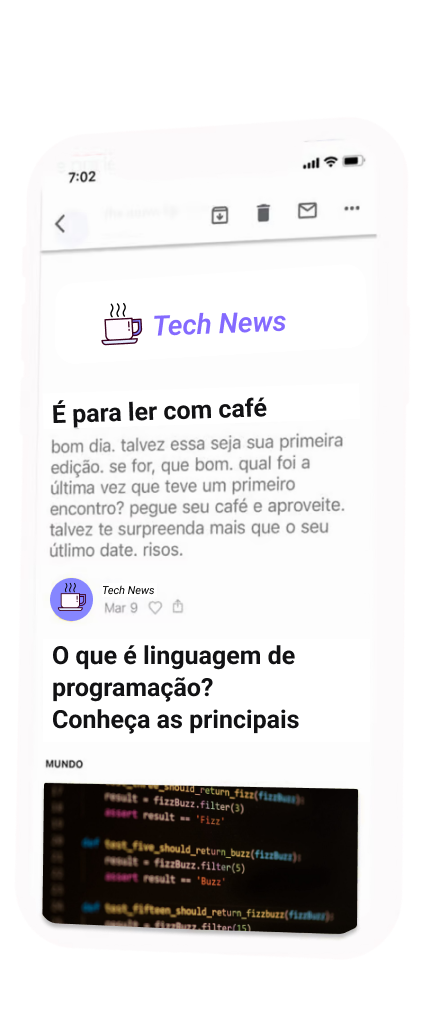
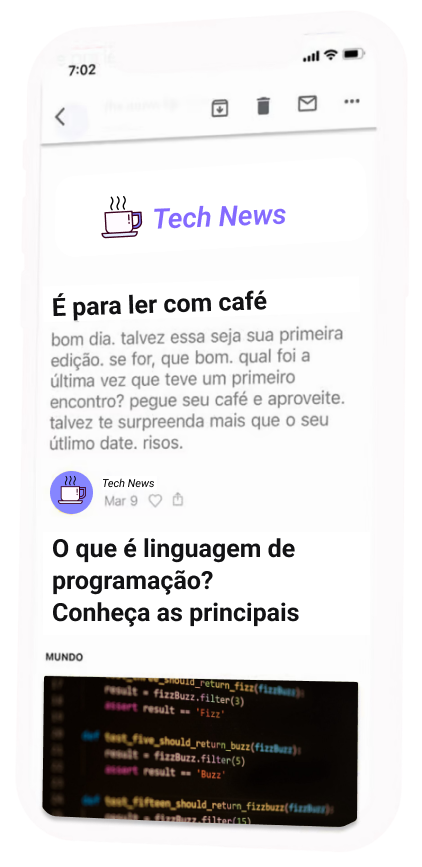
:fix: Corrijindo responsividade newsletter, ajustes de margin index e article, ajustando dimensões imagem celular newsletter

Changed region(s): [[0.0924, 0.0311, 0.8934, 0.9654], [0.154, 0.0623, 0.2464, 0.0934]]

diff --git a/assets/styles/newsLetter.css b/assets/styles/newsLetter.css
@@ -7,16 +7,7 @@ body {
 /* Contêiner Principal */
 
 .container-newsletter {
-  display: flex;
-  align-items: flex-start;
-  height: 100vh;
-  width: 100vw;
-  flex-direction: column;
-  padding: 1.5rem;
-  background-image: url(../img/imgs/trianguloBG_newsletter.svg);
-  background-repeat: no-repeat;
-  background-size: 63vw;
-  background-position: bottom right;
+  overflow: hidden;
 }
 
 .subscribe {
@@ -24,13 +15,12 @@ body {
     flex-direction: column;
     justify-content: flex-start;
     align-items: center;
-    width: 80vw;
+    width: 87vw;
 }
 
-.subscribe header img {
-  width: 4rem;
-  height: 4rem;
-  margin-bottom: 1.8rem;
+.subscribe .img_logo {
+  margin-bottom: 1.2rem;
+  width: 12rem;
 }
 
 .subscribe h1 {
@@ -41,13 +31,14 @@ body {
   margin-bottom: 1.8rem;
 }
 
-.subscribe p {
-  font-size: 1rem;
-  text-align: left;
-  min-width: 19rem;
+.subscribe .paragrafo_sobre {
+  width: 61vw;
+  text-align: justify;
+  font-size: 1.3rem;
+  max-width: 36rem;
   line-height: 1.5;
   color: #121214;
-  margin-bottom: 1.8rem;
+  margin-bottom: 1rem;
 }
 
 .subscribe form {
@@ -55,9 +46,6 @@ body {
   flex-direction: column;
   align-items: center;
   gap: 0.3rem;
-  margin-top: 1rem;
-  margin-bottom: 4rem;
-  width: 22rem;
 }
 
 .subscribe input[type="email"] {
@@ -75,13 +63,11 @@ body {
 }
 
 .subscribe button {
-  width: 100%;
+  width: 18rem;
   max-width: 17rem;
   height: 3rem;
-  padding: 0 3rem;
   background-color: #846aff;
   color: #fff;
-  border: none;
   border-radius: 0.4rem;
   font-size: 1rem;
   font-weight: bold;
@@ -96,12 +82,14 @@ body {
 /* Seção de retorno à pagina inicial*/
 
 .subscribe .additional-info {
+  width: 100%;
   font-size: 1rem;
   color: #121214;
 }
 
-.subscribe .additional-info p {
+.subscribe .additional-info p  {
   font-style: italic;
+  font-size: 1.4rem;
 }
 
 .subscribe .additional-info button {
@@ -138,10 +126,9 @@ body {
 
 /* Seção de Imagem */
 
-.image-newsletter {
+.img_celular-newsletter {
   display: none;
 }
-
 /* Triângulo Background*/
 
 .triangulo {
@@ -153,34 +140,45 @@ body {
 /* Media Queries para dispositivos maiores */
 
 
-@media (min-width: 375px) {
+@media (min-width: 320px) {
 
   .container-newsletter {
+    display: flex;
+    align-items: flex-start;
     flex-direction: column;
-    padding: 2rem;
+    justify-content: space-around;
+    height: 100vh;
+    width: 100vw;
+    padding: 1.3rem;
+    background-image: url(../img/imgs/trianguloBG_newsletter.svg);
+    background-repeat: no-repeat;
+    background-size: 53vw;
+    background-position: bottom right;
   }
 
   .subscribe img {
-    width: 13.8rem;
-    margin-bottom: 3rem;
+    margin-bottom: 1.2rem;
+    width: 12rem;
   }
 
-  .subscribe p {
+  .subscribe .paragrafo_sobre {
     font-size: 1rem;
-    width: 21rem;
+    width: 83vw;
+    max-width: 37rem;
     text-align: justify;
-    margin-bottom: 0rem;
+    margin-bottom: 1rem;
   }
 
   .subscribe form {
-    padding: 1rem;
     gap: 1rem;
+    margin: 0rem 1rem 2rem 0;
+    width: 17rem;
   }
 
   .subscribe input[type="email"] {
-    font-size: 1.1rem;
-    width: 20rem;
-    max-width: 36rem;
+    font-size: 1rem;
+    width: 85vw;
+    max-width: 27rem;
     padding-left: 5rem;
     height: 3.5rem;
     background-position: 1.5rem center;
@@ -190,13 +188,14 @@ body {
 
   .subscribe button {
     font-size: 1.1rem;
-    width: 20rem;
-    max-width: 36rem;
+    width: 85vw;
+   max-width: 27rem;
     height: 3.5rem;
   }
 
   .subscribe .additional-info {
-    font-size: 1.25rem;
+    width: 83vw;
+    max-width: 37rem;
   }
 
   .subscribe .additional-info button a {
@@ -208,13 +207,8 @@ body {
     margin-bottom: 0rem;
   }
 
-  .additional-info p{
-    margin-bottom: 0rem;
-    padding-left: 0rem;
-  }
-
-  .img_celular-newsletter {
-    display: none;
+  .subscribe .additional-info p {
+    font-size: 1.1rem;
   }
 
 }
@@ -223,7 +217,7 @@ body {
 
 @media (min-width: 768px) {
   .container-newsletter {
-    background-size: 50vw;
+    background-size: 38vw;
   } 
   
   .subscribe {
@@ -233,32 +227,26 @@ body {
 
   .subscribe img {
     width: 15rem;
-}
+  }
 
-  .subscribe p {
-    width: 30rem;
-    font-size: 1.1rem;
+  .subscribe .paragrafo_sobre {
+    font-size: 1.3rem;
   }
 
   .subscribe form {
-    width: 32rem;
+    width: 36rem;
   }
 
-  .subscribe input[type="email"] {
-    width: 30rem;
+  .subscribe input[type="email"], .subscribe button {
+    max-width: 31rem;
   }
 
-  .subscribe button { 
-    width: 30rem;
-  }
-
-  .subscribe .additional-info p {
+  .subscribe .additional-info p  {
     font-size: 1.5rem;
   }
-  
 
-  .subscribe .additional-info button a {
-    font-size: 1.5rem;
+  .subscribe .additional-info button a  {
+    font-size: 1.3rem;
   }
 
   .subscribe .additional-info button {
@@ -278,23 +266,41 @@ body {
     justify-content: space-around;
     background-size: 54vw;
   }
-
+  
   .subscribe {
-    width: 50vw;
+    width: 58vw;
     margin-left: 0rem;
+    height: 37rem;
+    justify-content: space-around;
+  }
+
+  .subscribe .img_logo {
+    width: 16rem;
   }
 
   .subscribe p {
     width: 49vw;
-    max-width: 39rem;
+    max-width: 33rem;
     font-size: 1.3rem;
   }
 
   .img_celular-newsletter {
     display: flex;
     position: absolute;
-    transform: translate(63vw, -54rem);
-    width: 20rem;
+    transform: translate(63vw, -45rem);
+        width: 19rem;
   }
 
+}
+
+@media (min-width: 1300px) { 
+
+  .subscribe {
+    height: 45rem;
+  }
+
+  .img_celular-newsletter {
+    transform: translate(63vw, -50rem);
+    width: 21rem;
+  }
 }

diff --git a/index.html b/index.html
@@ -27,8 +27,8 @@
         <img src="./assets/img/imgs/image.svg" alt="">
         <div>
             <h1 class="hero-titulo">Receba os <span class="destaque--hero-titulo">melhores artigos</span>
-                de programação em um só lugar</h1>
-            <p class="hero-subtitulo">Explore o topo da programação em um só lugar! Seu destino único para dicas e tendências atuais.</p>
+                de programação em um só lugar.</h1>
+            <p class="hero-subtitulo">Explore o topo da programação! Seu destino único para dicas e tendências atuais.</p>
             <button class="btn_callToAction btn_hero" type="button"><a href="./pages/newsletter.html">SAIBA MAIS</a></button>
         </div>
    </section>

diff --git a/pages/newsletter.html b/pages/newsletter.html
@@ -12,8 +12,8 @@
   <body>
     <main class="container-newsletter">
       <section class="subscribe">
-          <img src="../assets/img/imgs/TechNews-logo (Desktop).png" alt="Xícara de café"/>
-          <p>
+          <img src="../assets/img/imgs/TechNews-logo (Desktop).png" class="img_logo" alt="Xícara de café"/>
+          <p class="paragrafo_sobre">
             Tudo que você precisa saber sobre tecnologia pra começar seu dia bem
             e informado. <br>
             As principais notícias sobre tecnologia do Brasil e do mundo, 100%

diff --git a/pages/article.html b/pages/article.html
@@ -12,11 +12,13 @@
 
   <body>
     <header class="header-container">
-      <img
-        src="../assets/img/imgs/TechNews-logo (Desktop).png"
-        class="header-logo"
-        alt="logo Tech blog"
-      />
+      <a href="../index.html">
+        <img
+          src="../assets/img/imgs/TechNews-logo (Desktop).png"
+          class="header-logo"
+          alt="logo Tech blog"
+        />
+      </a>
 
       <nav>
         <button class="btn_nav-MenuHamburguer" type="button">

diff --git a/assets/styles/techBlog.css b/assets/styles/techBlog.css
@@ -55,9 +55,9 @@
     font-family: 'Roboto', sans-serif;
     font-size: 1.5rem;
     font-weight: 600;
-    width: 20rem;
+    width: 16rem;
     position: relative;
-    right: 2%;
+    right: 4vw;
 }
 
 .container_cards {

diff --git a/assets/styles/article.css b/assets/styles/article.css
@@ -290,8 +290,12 @@ body {
   }
 
   .aside_article {
+    height: 49rem;
     margin-top: 0rem;
-
+  }
+  
+  .aside_title {
+      margin-top: 2rem;
   }
 
   .artigo {
